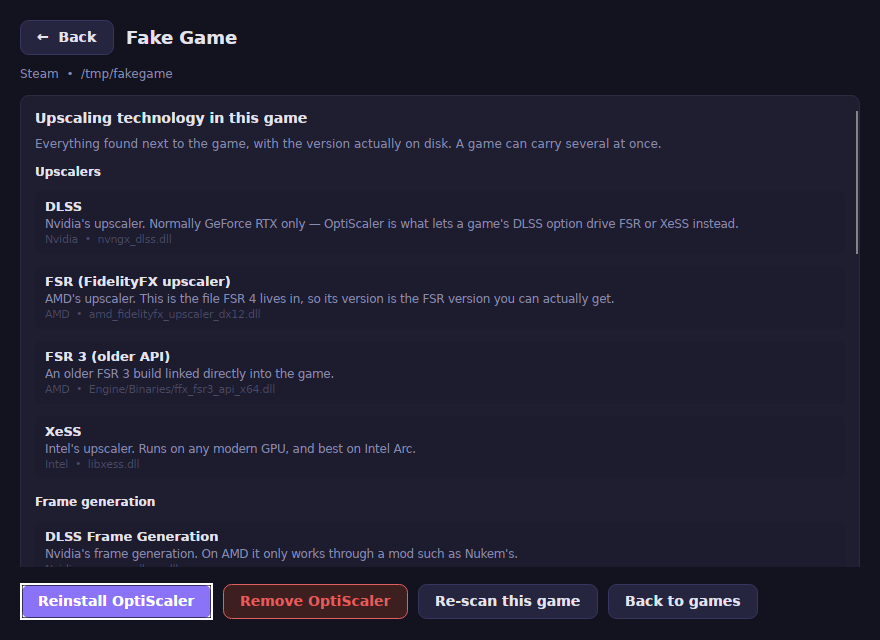
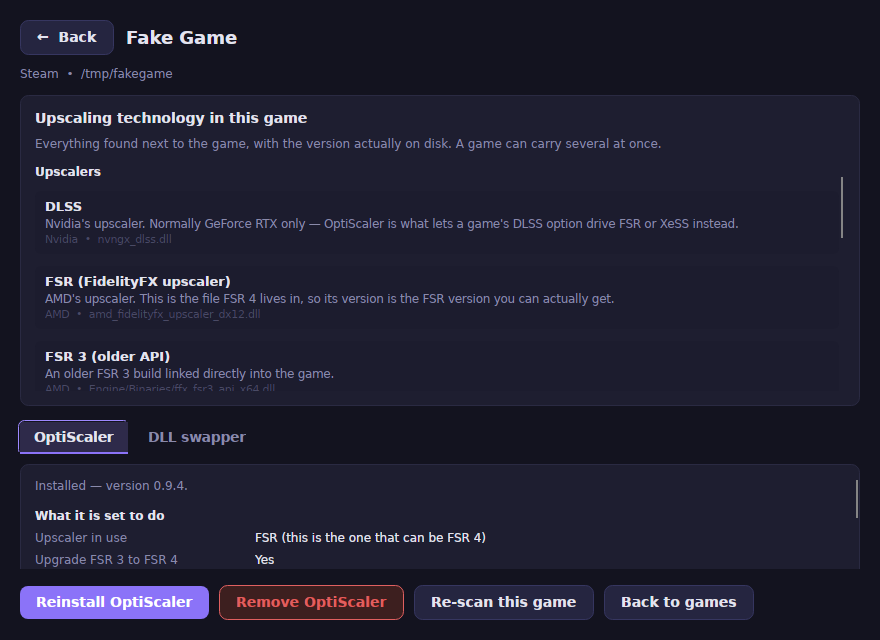
[release] v0.23.0 — the two routes are tabs, not a section and a button bar
The game's page had OptiScaler owning the pinned buttons at the bottom while
swapping was a card in the middle. That reads as one real feature with another
bolted underneath, which is not what they are: they are alternatives, and for
most games the swap is the better one.

So the page is now a summary, then two tabs — OptiScaler and DLL swapper — and
picking one changes both the options shown and the actions pinned at the bottom.
Install and Remove belong to the OptiScaler tab and disappear on the other;
swapping has no single action, because each DLL is its own row. Re-scan and Back
stay, since they are about the game rather than either route.

A game that already has swapped DLLs and no OptiScaler opens on the swapper.
Landing on an empty OptiScaler tab would have made it look as though nothing had
been done to it.

Two things the screenshots caught:

- The technology list is unbounded, and a game carrying eight components pushed
  the tabs off the bottom of the window entirely — the one thing that has to stay
  on screen is the choice between the routes. It is capped at 230px with its own
  scroll now; most games never reach that.
- Avalonia draws keyboard focus with a FocusAdorner, a white rectangle outside
  the control, not with the border. On a bordered button that reads as a ring; on
  a borderless tab it read as a stray box, and restyling BorderBrush did nothing
  because the adorner is a separate visual. Tabs now carry their own adorner that
[…]

Changed region(s): [[0.0, 0.6562, 0.8591, 0.9688], [0.9511, 0.2812, 0.9818, 0.375]]

diff --git a/src/UpscalerManager.App/Views/Pages/GameDetailsPage.axaml.cs b/src/UpscalerManager.App/Views/Pages/GameDetailsPage.axaml.cs
@@ -46,11 +46,66 @@ public partial class GameDetailsPage : UserControl, IHostedPage
         _manager = manager;
         _row = row;
         Title = row.Game.Name;
+
+        // Open on the route this game is already using. A game with swapped DLLs and
+        // no OptiScaler would otherwise land on an empty OptiScaler tab and look as
+        // though nothing had been done to it.
+        _swapTab = !row.Game.IsOptiscalerInstalled && HasSwaps();
+
         Render();
     }
 
     public void FocusFirst() =>
-        this.FindControl<Button>("InstallButton")?.Focus(NavigationMethod.Directional);
+        this.FindControl<Button>("OptiScalerTab")?.Focus(NavigationMethod.Directional);
+
+    // ── Tabs ────────────────────────────────────────────────────────────────────
+
+    private bool HasSwaps()
+    {
+        try { return _manager.SwapSlots(_row.Game).Any(s => s.IsOurs); }
+        catch { return false; }
+    }
+
+
+    /// <summary>Which route the page is showing. Not persisted: it follows the game.</summary>
+    private bool _swapTab;
+
+    private void OnSelectOptiScalerTab(object? sender, RoutedEventArgs e) => SelectTab(swap: false);
+
+    private void OnSelectSwapTab(object? sender, RoutedEventArgs e) => SelectTab(swap: true);
+
+    private void SelectTab(bool swap)
+    {
+        _swapTab = swap;
+        ApplyTab();
+    }
+
+    private void ApplyTab()
+    {
+        Show("OptiScalerPanel", !_swapTab);
+        Show("SwapPanel", _swapTab);
+
+        Mark("OptiScalerTab", !_swapTab);
+        Mark("SwapTab", _swapTab);
+
+        // Install and Remove act on OptiScaler, so they belong to its tab. Swapping
+        // has no single action — each DLL is its own row — so the swapper tab leaves
+        // the bar with only what applies to the game as a whole.
+        Show("InstallButton", !_swapTab);
+        Show("RevertButton", !_swapTab && _row.Game.IsOptiscalerInstalled);
+    }
+
+    private void Show(string name, bool visible)
+    {
+        if (this.FindControl<Control>(name) is { } control) control.IsVisible = visible;
+    }
+
+    private void Mark(string name, bool selected)
+    {
+        if (this.FindControl<Button>(name) is not { } tab) return;
+        if (selected) tab.Classes.Add("selected");
+        else tab.Classes.Remove("selected");
+    }
 
     private void Render()
     {
@@ -63,6 +118,7 @@ public partial class GameDetailsPage : UserControl, IHostedPage
         RenderComponents();
         RenderSwaps();
         RenderOptiScaler();
+        ApplyTab();
     }
 
     /// <summary>
@@ -264,14 +320,16 @@ public partial class GameDetailsPage : UserControl, IHostedPage
         var install = this.FindControl<Button>("InstallButton");
 
         var installed = game.IsOptiscalerInstalled;
-        if (revert is not null) revert.IsVisible = installed;
         if (install is not null) install.Content = installed ? "Reinstall OptiScaler" : "Install OptiScaler";
+        // Whether Remove is shown is decided by ApplyTab, which also has to hide it
+        // on the other tab — setting it here too would make the two disagree.
+        _ = revert;
 
         if (summary is not null)
         {
             summary.Text = installed
                 ? $"Installed — version {game.OptiscalerVersion ?? "unknown"}."
-                : "Not installed. Installing it lets this game's DLSS or FSR option drive FSR 4 instead.";
+                : "Not installed. Installing it lets this game's existing DLSS or FSR option drive a different upscaler — the route for games a straight DLL swap cannot help.";
         }
 
         if (config is null) return;

diff --git a/README.md b/README.md
@@ -101,6 +101,11 @@ Building from source is in [Building & running](#building--running).
   back. A revert is **refused if the DLL changed since** — a game patch is the usual
   reason — because restoring the older original over it would undo that.
 
+  ![The DLL swapper tab](docs/screenshots/swap-tab.png)
+
+  Picking a build for one of them opens its own page — your library, and the builds
+  found in your other games:
+
   ![Swapping a DLL](docs/screenshots/swap.png)
 
 - **Installing OptiScaler** downloads and installs the *real OptiScaler
@@ -165,11 +170,14 @@ Building from source is in [Building & running](#building--running).
   the Nvidia override, the overlay key). **Installing and removing both live here**,
   not on the cards, so neither is a stray click away.
 
+  Below that summary the page splits into **two tabs — OptiScaler and DLL swapper**
+  — because they are alternatives, not a list. Picking one changes both the options
+  shown and the actions pinned at the bottom, so neither route is presented as the
+  default with the other tacked on beneath it. A game that already has DLLs swapped
+  and no OptiScaler opens on the swapper, so the route it is actually using is the
+  one you land on.
+
   ![A game's details page](docs/screenshots/details.png)
-
-  ...and, further down the same page, what OptiScaler is actually set to do:
-
-  ![What OptiScaler is set to do](docs/screenshots/details-optiscaler.png)
 
 - **One window, always.** Settings, the install screen and the details page replace
   the game list in place rather than opening windows of their own — gamescope (Steam's
